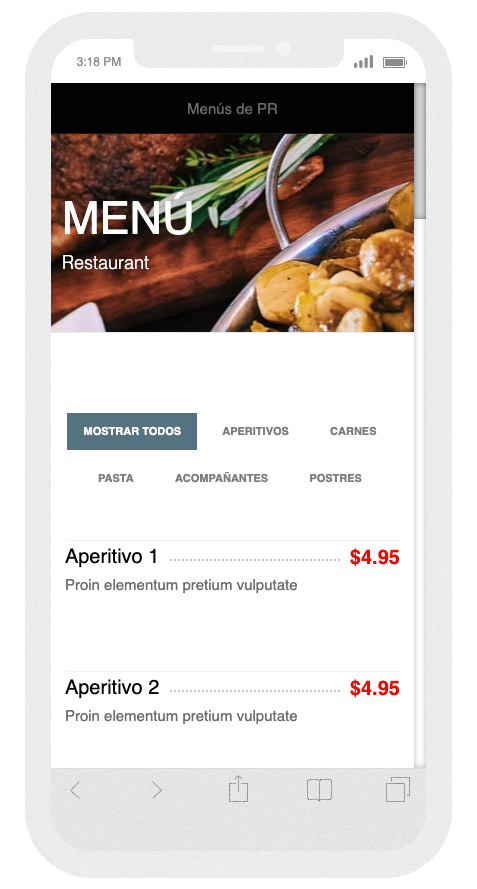
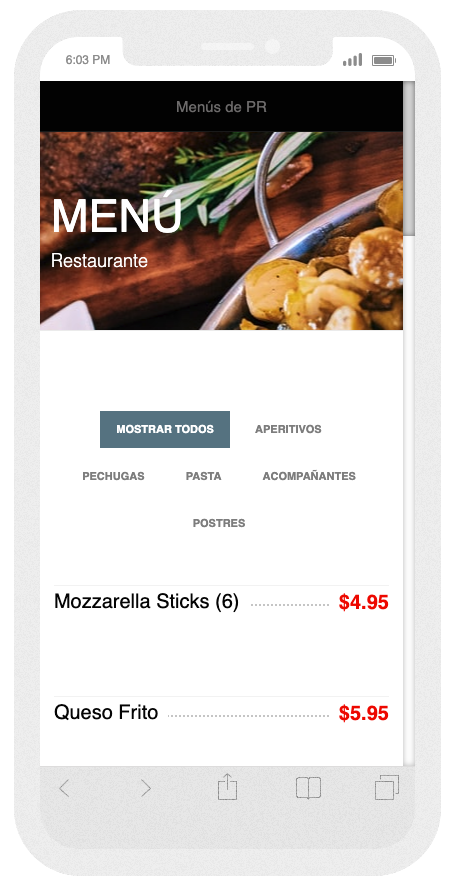
Change demo pics, edit metatags

diff --git a/index.html b/index.html
@@ -17,20 +17,20 @@
 <!-- Primary Meta Tags -->
 <title>MenusDePR.com: Menús Digitales de Restaurantes de Puerto Rico</title>
 <meta name="title" content="MenusDePR.com: Menús Digitales de Restaurantes de Puerto Rico">
-<meta name="description" content="Menús Digitales de Restaurantes de Puerto Rico">
+<meta name="description" content="Accede al menú de tu restaurante favorito desde el celular.">
 
 <!-- Open Graph / Facebook -->
 <meta property="og:type" content="website">
 <meta property="og:url" content="https://menusdepr.com/">
 <meta property="og:title" content="MenusDePR.com: Menús Digitales de Restaurantes de Puerto Rico">
-<meta property="og:description" content="Menús Digitales de Restaurantes de Puerto Rico">
+<meta property="og:description" content="Accede al menú de tu restaurante favorito desde el celular.">
 <meta property="og:image" content="https://menusdepr.com/images/default.png">
 
 <!-- Twitter -->
 <meta property="twitter:card" content="summary_large_image">
 <meta property="twitter:url" content="https://menusdepr.com/">
 <meta property="twitter:title" content="MenusDePR.com: Menús Digitales de Restaurantes de Puerto Rico">
-<meta property="twitter:description" content="Menús Digitales de Restaurantes de Puerto Rico">
+<meta property="twitter:description" content="Accede al menú de tu restaurante favorito desde el celular.">
 <meta property="twitter:image" content="https://menusdepr.com/images/default.png">
 
 <!-- Favicon -->
@@ -161,7 +161,7 @@
           </div>
           <div class="col-md-4 col-sm-6 m-bottom6">
             <div class="services-we-do">
-              <div class="post-img"><a href="#"><</a><span class="dine-time">TRIMESTRAL</span></div>
+              <div class="post-img"><a href="#"></a><span class="dine-time">TRIMESTRAL</span></div>
               <div class="service-info">
                 <h1>$40.00</h1>
                 <br>
